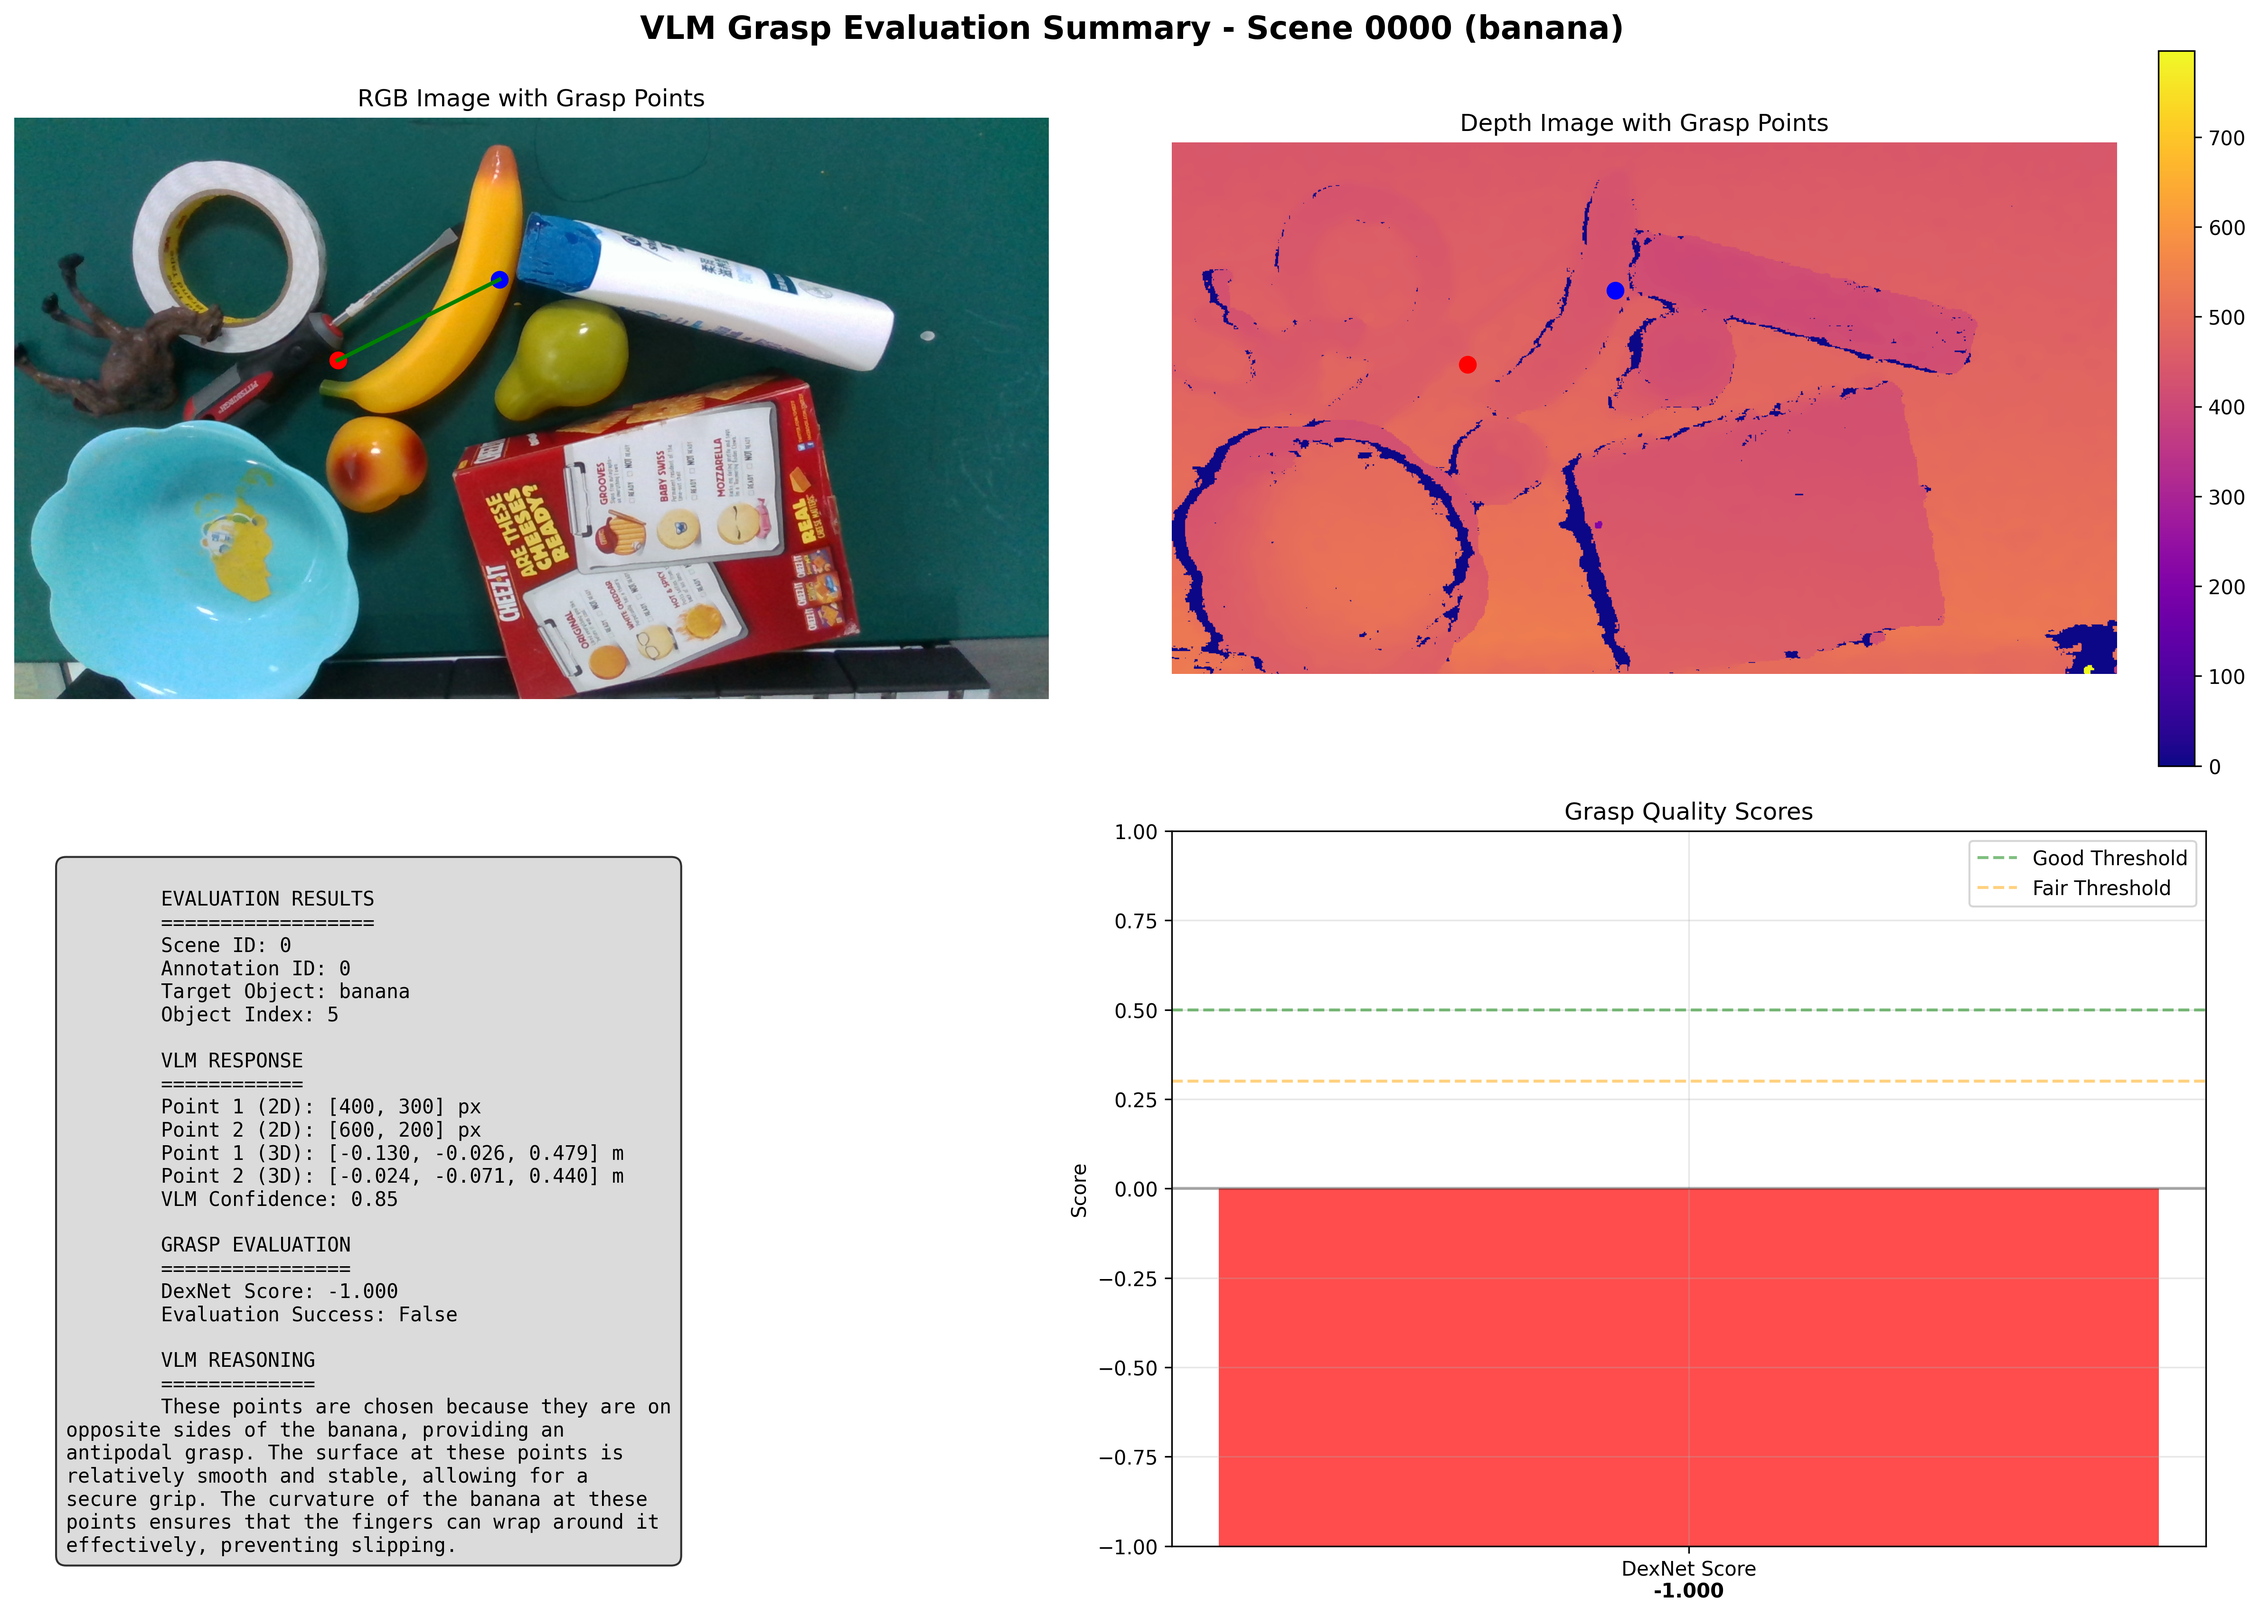
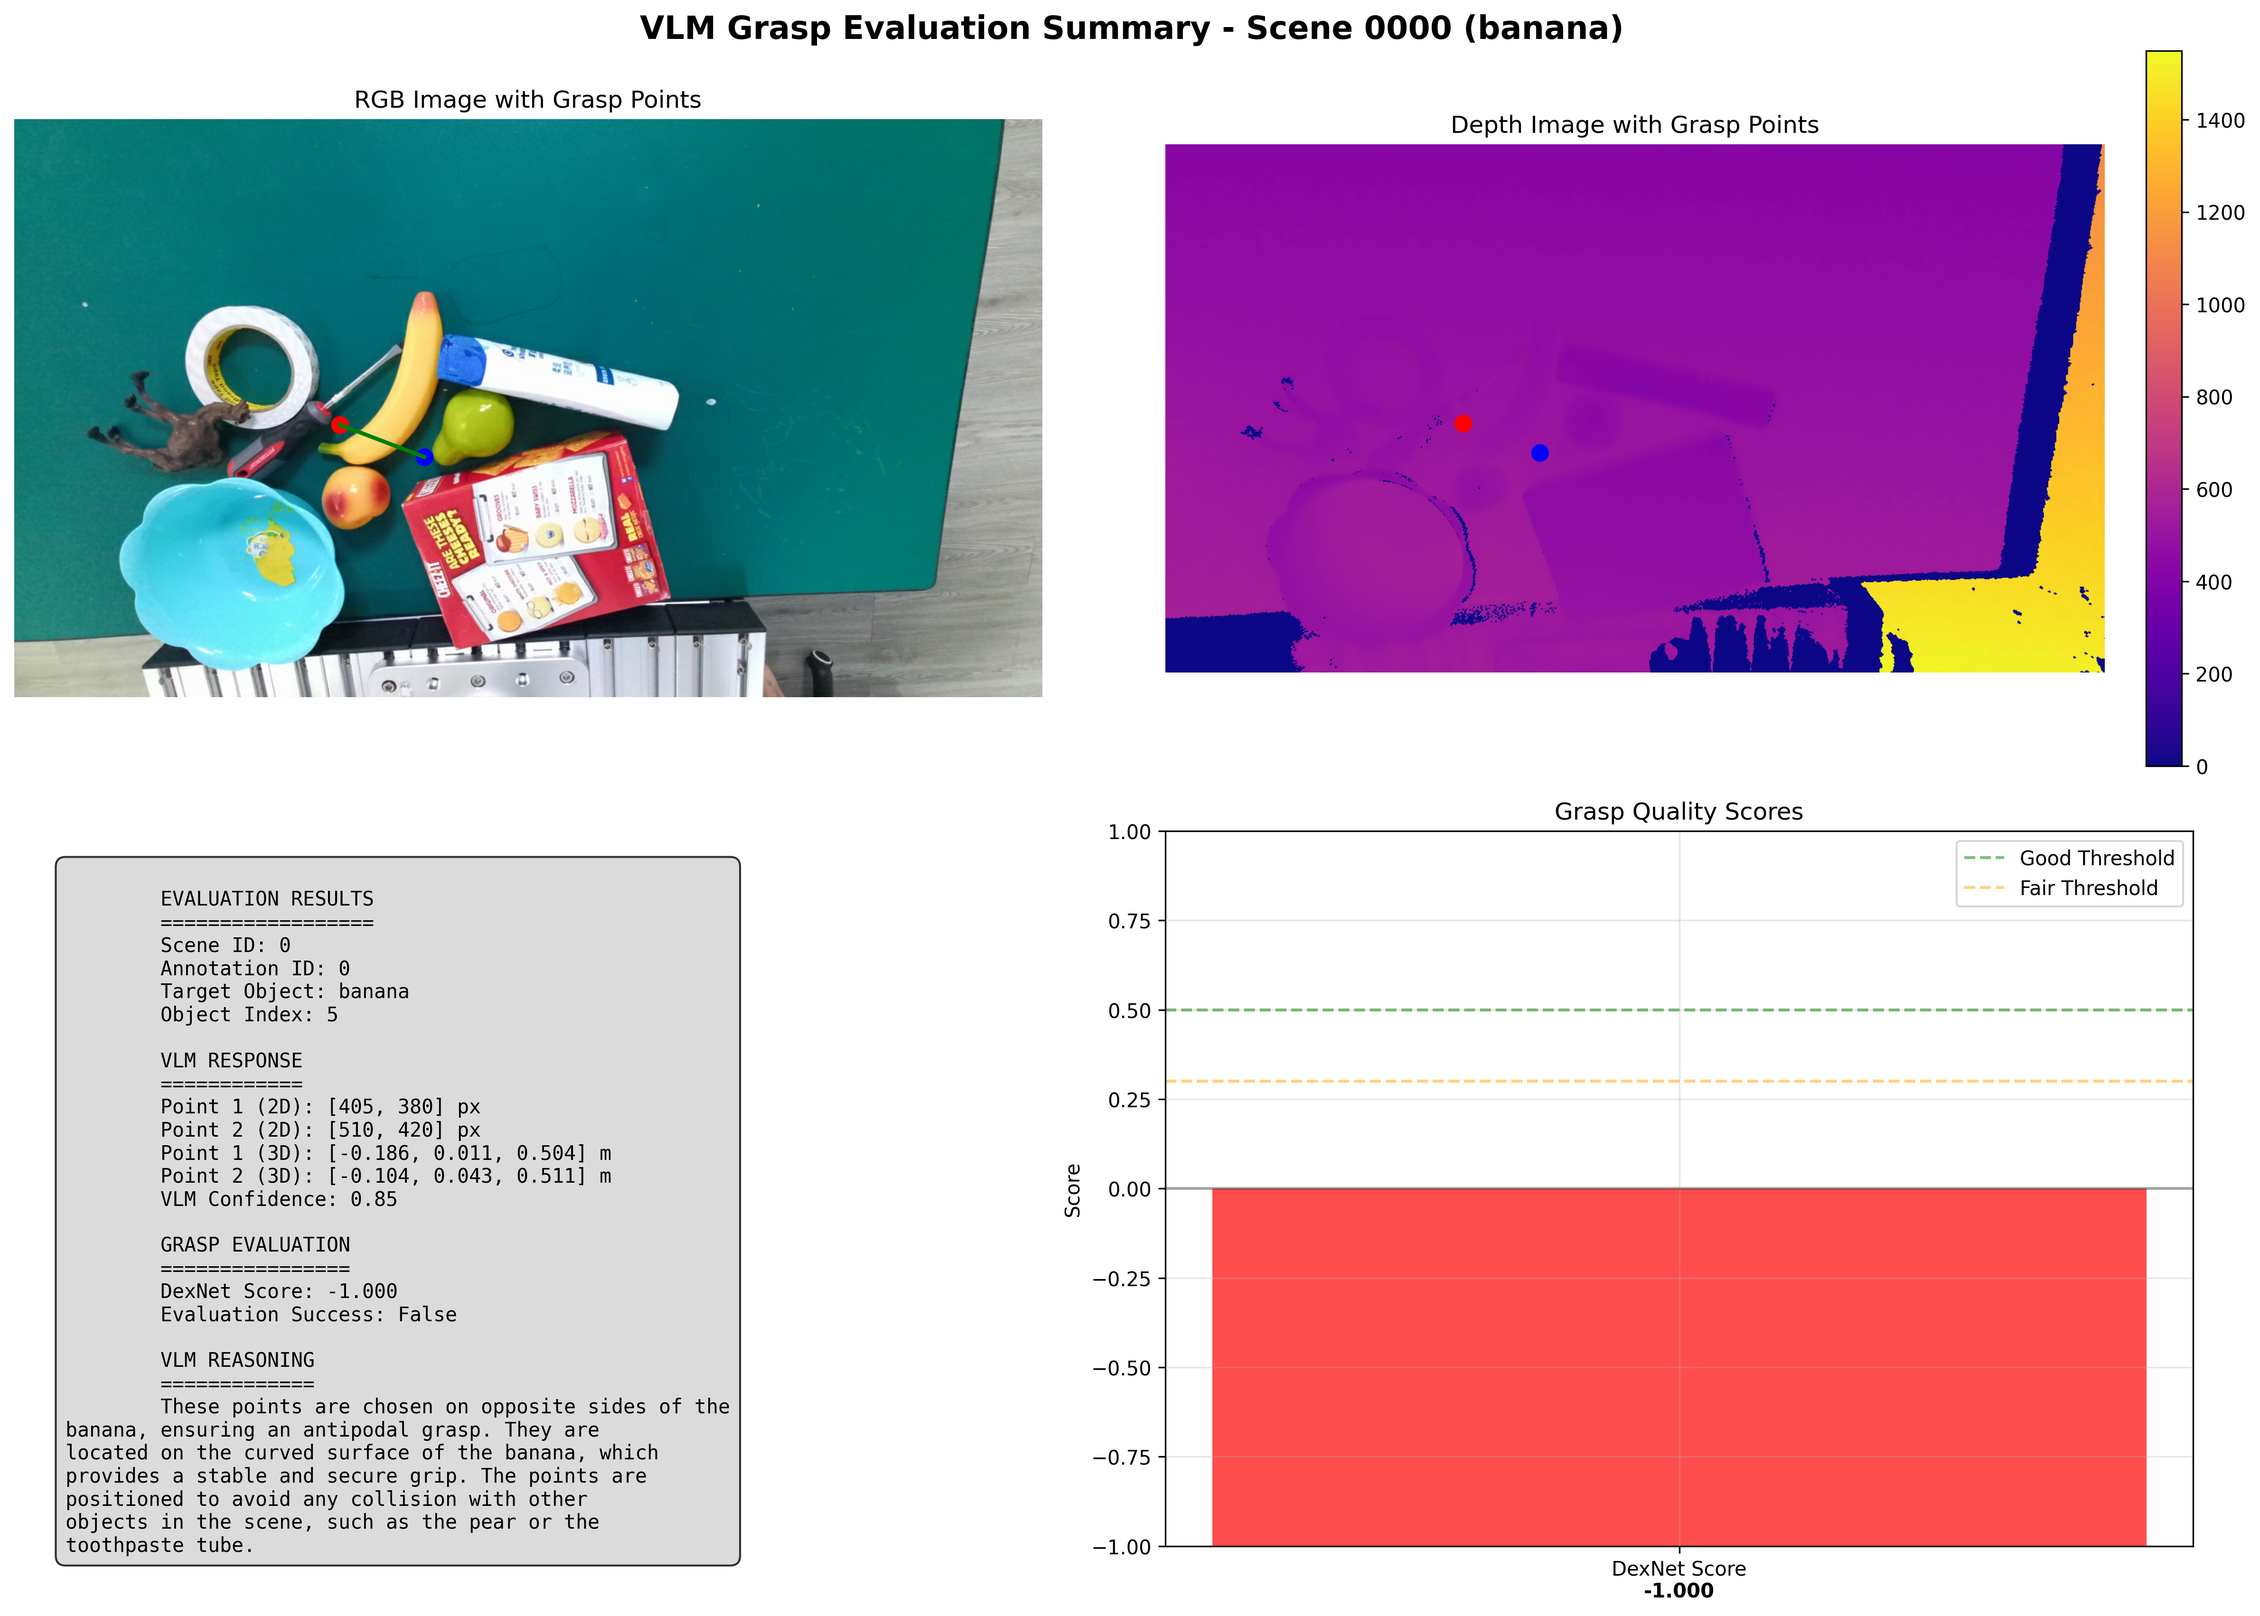
Enhance VLMGraspEval: integrate eval_grasp for DexNet evaluation, add object pose handling, and improve logging. Update binary visualization files.

diff --git a/graspnetAPI/vlm_grasp_eval.py b/graspnetAPI/vlm_grasp_eval.py
@@ -15,7 +15,7 @@ from .grasp import GraspGroup, Grasp
 from .utils.config import get_config
 from .utils.eval_utils import (
     load_dexnet_model, voxel_sample_points, 
-    get_grasp_score, collision_detection
+    get_grasp_score, collision_detection, eval_grasp, transform_points
 )
 try:
     from .utils.eval_utils import get_scene_name
@@ -90,8 +90,8 @@ class VLMGraspEval:
             consider yourself as a robot arm with a parallel gripper, give the parameters on the objects in the image that the gripper should contact with  that allows a success and stable grasp while lifting, transporting and shaking
             Look at this image and identify the {target_object}. 
             I need you to suggest the best antipodal grasp points for picking up this object.
-            
-                         Please return EXACTLY two 2D pixel coordinates on the image that represent 
+            The points MUST be on the object and not on the background without collision with other objects.
+            Please return EXACTLY two 2D pixel coordinates on the image that represent 
              optimal grasp locations (where gripper fingers should contact the object).
              
              Return your answer in this exact JSON format:
@@ -346,75 +346,91 @@ class VLMGraspEval:
         return grasp_array
     
     def evaluate_grasp_dexnet(self, grasp_array: np.ndarray, object_model: np.ndarray, 
-                            dexnet_model, friction_coef: float = 0.4) -> float:
+                            dexnet_model, object_pose: np.ndarray = None, friction_coef: float = 0.4) -> float:
         """
-        Evaluate grasp quality using DexNet.
+        Evaluate grasp quality using DexNet via the existing eval_grasp infrastructure.
         
         **Input:**
-        - grasp_array: grasp in GraspNet array format
+        - grasp_array: grasp in GraspNet array format (in camera coordinates)
         - object_model: point cloud of the object
         - dexnet_model: loaded DexNet model for the object
+        - object_pose: 4x4 transformation matrix from object to camera frame
         - friction_coef: friction coefficient
         
         **Output:**
         - quality_score: grasp quality score from DexNet
         """
+        print(f"🔍 Starting DexNet evaluation using existing infrastructure...")
+        print(f"   Grasp array shape: {grasp_array.shape}")
+        print(f"   Object model points: {len(object_model) if object_model is not None else 'None'}")
+        print(f"   DexNet model type: {type(dexnet_model)}")
+        print(f"   Object pose available: {object_pose is not None}")
+        
         try:
-            # Create Grasp object from the DexNet utils
-            from .utils.dexnet.grasping.grasp import ParallelJawPtGrasp3D
-            from .utils.dexnet.grasping.contacts import Contact3D
-            from .utils.dexnet.grasping.graspable_object import GraspableObject3D
-            from .utils.dexnet.grasping.grasp_quality_config import GraspQualityConfig
+            # Import required functions from existing infrastructure
+            from .utils.eval_utils import eval_grasp, transform_points
+            from .grasp import GraspGroup
+            from .utils.dexnet.grasping.grasp_quality_config import GraspQualityConfigFactory
             
-            # Extract grasp pose from array
-            score = grasp_array[0]
-            width = grasp_array[1]
-            height = grasp_array[2] 
-            depth = grasp_array[3]
-            rotation_matrix = grasp_array[4:13].reshape(3, 3)
-            translation = grasp_array[13:16]
+            # Create a GraspGroup with our single grasp
+            grasp_group = GraspGroup()
+            grasp_group.grasp_group_array = grasp_array.reshape(1, -1)  # Single grasp
             
-            # Create DexNet grasp configuration
-            config = self.dexnet_config['metrics']['force_closure'].copy()
-            config['friction_coef'] = friction_coef
+            print(f"   ✅ Created GraspGroup with 1 grasp")
             
-            # Calculate grasp endpoints from pose
-            grasp_center = translation
-            grasp_axis = rotation_matrix[:, 1]  # Y-axis for finger separation
+            if object_pose is None:
+                print("   ❌ No object pose available - cannot evaluate without proper coordinate transformation")
+                return -1.0
             
-            # Calculate jaw endpoints
-            endpoint1 = grasp_center - (width / 2.0) * grasp_axis
-            endpoint2 = grasp_center + (width / 2.0) * grasp_axis
+            # Prepare inputs for eval_grasp function
+            models = [object_model]  # List of object models (in object coordinates)
+            dexnet_models = [dexnet_model]  # List of DexNet models
+            poses = [object_pose]  # List of poses (object to camera)
             
-            # Create DexNet grasp from endpoints
-            grasp = ParallelJawPtGrasp3D.grasp_from_endpoints(
-                endpoint1, 
-                endpoint2, 
-                width=width,
-                approach_angle=0,  # Use default approach angle
-                close_width=0.01   # Minimum close width
+            # Use the DexNet config from our class
+            config = self.dexnet_config.copy()
+            
+            print(f"   Calling eval_grasp with {len(models)} objects...")
+            
+            # Call the existing eval_grasp function
+            grasp_list, score_list, collision_mask_list = eval_grasp(
+                grasp_group=grasp_group,
+                models=models,
+                dexnet_models=dexnet_models,
+                poses=poses,
+                config=config,
+                table=None,  # No table for simplicity
+                voxel_size=0.008,
+                TOP_K=1
             )
             
-            # Evaluate force closure quality
-            fc_list = [0.2, 0.4, 0.6, 0.8, 1.0, 1.2]
-            force_closure_quality_config = {}
-            for fc in fc_list:
-                temp_config = config.copy()
-                temp_config['friction_coef'] = fc
-                force_closure_quality_config[fc] = GraspQualityConfig(temp_config)
+            print(f"   ✅ eval_grasp completed")
+            print(f"   Grasp list length: {len(grasp_list)}")
+            print(f"   Score list length: {len(score_list)}")
             
-            # Use the DexNet evaluation function
-            quality_score = get_grasp_score(grasp, dexnet_model, fc_list, force_closure_quality_config)
-            
-            return quality_score if quality_score >= 0 else -1.0
-            
+            # Extract the score for our grasp
+            if len(score_list) > 0 and len(score_list[0]) > 0:
+                quality_score = score_list[0][0]  # First object, first grasp
+                collision_detected = collision_mask_list[0][0] if len(collision_mask_list) > 0 and len(collision_mask_list[0]) > 0 else False
+                
+                print(f"   Quality score: {quality_score}")
+                print(f"   Collision detected: {collision_detected}")
+                
+                if collision_detected:
+                    print("   ⚠ Grasp has collision, returning -1")
+                    return -1.0
+                    
+                print(f"   🎯 Final quality score: {quality_score}")
+                return quality_score
+            else:
+                print("   ❌ No scores returned from eval_grasp")
+                return -1.0
+                
         except Exception as e:
-            print(f"Error evaluating grasp with DexNet: {e}")
+            print(f"❌ Error in DexNet evaluation: {e}")
             import traceback
             traceback.print_exc()
             return -1.0
-        
-
     
     def get_object_model_and_dexnet(self, scene_id: int, ann_id: int, 
                                    target_obj_idx: int) -> Tuple[np.ndarray, object]:
@@ -712,13 +728,13 @@ class VLMGraspEval:
         except Exception as e:
             return {'error': f'Failed to convert 2D to 3D coordinates: {e}'}
         
-        # Get object pose for better grasp orientation
+        # Get object pose for proper coordinate transformation
         try:
             object_pose = self.get_object_pose_in_camera(scene_id, ann_id, target_obj_idx)
             print(f"Object pose loaded successfully")
         except Exception as e:
             print(f"Warning: Could not load object pose: {e}")
-            print("Using default approach vector")
+            print("This will affect DexNet evaluation accuracy")
             object_pose = None
         
         # Determine approach vector from object pose if available
@@ -745,9 +761,9 @@ class VLMGraspEval:
             scene_id, ann_id, target_obj_idx
         )
         
-        # Evaluate with DexNet
+        # Evaluate with DexNet (now passing object_pose for proper coordinate transformation)
         print("Evaluating grasp quality with DexNet...")
-        dexnet_score = self.evaluate_grasp_dexnet(grasp_array, object_model, dexnet_model)
+        dexnet_score = self.evaluate_grasp_dexnet(grasp_array, object_model, dexnet_model, object_pose)
         
         # Compile results
         result = {
@@ -1071,9 +1087,9 @@ def example_usage():
     # Adjust these paths according to your setup
     graspnet_root = "/path/to/graspnet"  # Change this to your GraspNet root
     vlm_config = {
-        'model': 'qwen2.5vl:7b',  # or 'qwen2.5'
+        'model': 'qwen2.5vl:32b',  # or 'qwen2.5'
         'endpoint': 'http://localhost:11434/api/generate',
-        'temperature': 0.7,
+        'temperature': 0.1,
         'max_tokens': 500
     }
     
